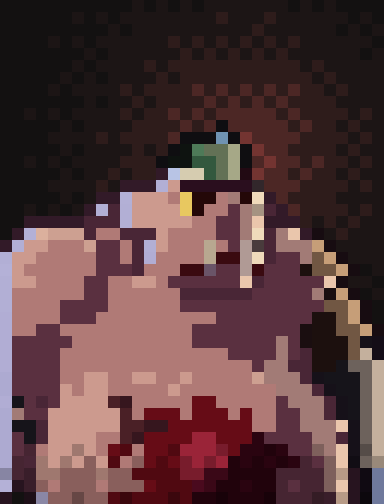
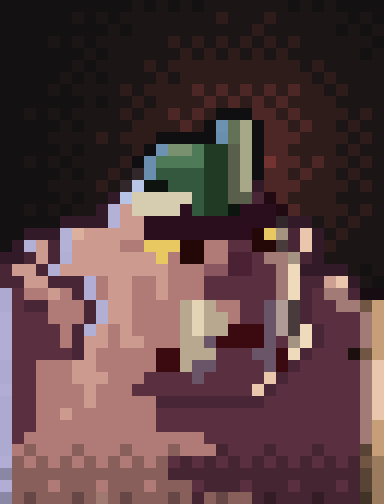
Pudge: head-centred HUD portrait; walk keeps the idle cleaver angle (no pop on the shared pass frame)

diff --git a/client/src/art/portraits/pudge.js b/client/src/art/portraits/pudge.js
@@ -1,50 +1,50 @@
 // GENERATED by tools/vox/portrait.mjs (pudge) -- do not edit by hand. Voxel HUD portrait 32x42 (= the 32x42 the HUD shows, 1 art px = 1 u), opaque.
 // Loaded by client/src/art/portraits.js, which swaps it into the sheet's 'portrait' frame unless ?vox=0.
 export default {
-  pal: { '0':'#21030c', '1':'#500911', '2':'#462532', '3':'#1c100e', '4':'#16141a', '5':'#b2afd5', '6':'#715743', '7':'#0f0e11', '8':'#170c11', '9':'#c4b09d', '!':'#1c1515', '#':'#b07a76', '$':'#131111', '%':'#2e1c1b', '&':'#5a3040', '(':'#cc9a8e', ')':'#4c2725', '*':'#492636', '+':'#a27b76', ',':'#660c16', '-':'#321a28', '/':'#895f5c', ':':'#6d625c', ';':'#eac6ac', '<':'#161119', '=':'#2a0410', '>':'#c69e78', '?':'#b1add4', '@':'#adaad1', 'A':'#9a2438', 'B':'#2a0e1e', 'C':'#9f786f', 'D':'#cda091', 'E':'#3a0a10', 'F':'#4a2026', 'G':'#781c2c', 'H':'#27141f', 'I':'#733431', 'J':'#637156', 'K':'#240808', 'L':'#36161e', 'M':'#7e605c', 'N':'#0e1310', 'O':'#a6a887', 'P':'#33583e', 'Q':'#efdabb', 'R':'#b09a95', 'S':'#1a0e10', 'T':'#391e2a', 'U':'#3a0817', 'V':'#6f799c', 'W':'#d6ccb0', 'X':'#b3b0d6', 'Y':'#e8c860', 'Z':'#b8a890', '[':'#b4b1d7', ']':'#140d17', '^':'#b79a86', '_':'#100a12', 'a':'#3b070d', 'b':'#180209', 'c':'#7093b2', 'd':'#4e7a58', 'e':'#b8c4e5', 'f':'#220a13', 'g':'#32272b', 'h':'#a59382', 'i':'#dbb09d', 'j':'#493b3c', 'k':'#6a5468', 'l':'#554c48', 'm':'#110d14', 'n':'#99897a', 'o':'#8785a3', 'p':'#4a0a1e', 'q':'#1d0f17', 'r':'#8a87a5', 's':'#664745', 't':'#341c25', 'u':'#0c080d' },
+  pal: { '0':'#a27b76', '1':'#0f0e11', '2':'#b8a890', '3':'#3a0a10', '4':'#203a24', '5':'#6a5468', '6':'#eac6ac', '7':'#33583e', '8':'#d6ccb0', '9':'#b1add4', '!':'#1c1515', '#':'#5a3040', '$':'#b07a76', '%':'#131111', '&':'#2e1c1b', '(':'#cc9a8e', ')':'#895f5c', '*':'#462532', '+':'#492636', ',':'#4c2725', '-':'#2a0e1e', '/':'#321a28', ':':'#adaad1', ';':'#c69e78', '<':'#240808', '=':'#a6a887', '>':'#595f4b', '?':'#efdabb', '@':'#4e7a58', 'A':'#e8c860', 'B':'#b2afd5', 'C':'#664745', 'D':'#b4b1d7', 'E':'#493b3c', 'F':'#4a2234', 'G':'#9a7b5e', 'H':'#6a8fae', 'I':'#32272b', 'J':'#a59382', 'K':'#e2d4b4', 'L':'#b09a95', 'M':'#715743', 'N':'#584434', 'O':'#637156', 'P':'#7a9170', 'Q':'#0e1310', 'R':'#220a13', 'S':'#8a5660', 'T':'#170c11', 'U':'#8a87a5', 'V':'#341c25', 'W':'#6d91b0', 'X':'#6e92b1', 'Y':'#733431', 'Z':'#b9c5e6', '[':'#b8c4e5', ']':'#0c160e', '^':'#dbb09d', '_':'#b3b0d6', 'a':'#cda091', 'b':'#1c100e', 'c':'#9f786f', 'd':'#423327' },
   face: [4, 11, 24, 24],
   rows: [
-    '$$$$$$$$$$$!$!$!$!!!!!!!$!$!$$$$',
-    '$$$$$$!$!$!!!!!!!!%!!!%!!!!!!$!$',
-    '$$$$$$$$$!$!!!!!!!!!!%!!!!!!$!$!',
-    '$$$$!$!$!!!!!!%!%!%!%!%!%!!!!!!$',
-    '$$$$$$$!$!!!!!!%!%!%!%!%!!!!!!$!',
-    '$$$$$$!$!!!!%!%%%%%%%%%%%!%!!!!!',
-    '$$$$$!$!$!!!!%!%%%%%%%%%%%!%!!!!',
-    '$$$$!$!!!!%!%%%%)%)%)%)%)%%!%!!!',
-    '$$$$$$$!$!!%!%%%%)%)%)%)%%%%!!!!',
-    '$$!$!$!!!!%!%%)%)%)))))%)%%%%!%!',
-    '$$$$$!$!!!!%%%%)%)7)))))%)%%!%!!',
-    '$$$$!!!!%!%%%%)777c7I))))%%%%!%!',
-    '$$$$$!$!!!!%!%7NdJJO7I))%%%%!%!!',
-    '$$!$!$!!!!%%%7NNPPJO7)I))%)%%!%!',
-    '$$$$$!$!!%!%%-eWWPJOfI))%)%%!%!!',
-    '$$$$!!!!%!---5(BBBBBBg)))%%%%!%!',
-    '$$$$$!$!--X(((#YKK#+KQ-)%%%%!!!!',
-    '$$!$!$!-5*5((((YK##&+h*-)%%%%!%!',
-    '$$-----***5(((((##&&+;---%!%!%!!',
-    '$-XiDDD*##***(####&&+Q*+;-8!%!!!',
-    '-5((###D&&#*5(###Z#&Rj*+++>8!!!!',
-    '5((#####&&#*?####ZEERQ*&&+6>8!!!',
-    '[(######&&&*###EEk&&RE&&&366>8$!',
-    '5((####&&##((#&&&&&&;*&&&&&;8!!$',
-    '5######&&######******&&&&&+S>8$!',
-    '5####&&&&######&&&&&&&&&&&&66>8$',
-    '?####&&&##########&&&&&&&&336>8$',
-    '?##&&###########&&&&&&&&&S3366>8',
-    '?&&&&&##########&&&&&&&+&S3336<]',
-    '?&&&&##############&&&&+&*33369]',
-    '?&&&&################&++**334::9',
-    '@&&&&##((##((##(#####D+++*<444:9',
-    '@&&&&(#((#####(########+++*<44:9',
-    '?4&*&((((FL#####,,#####&+++*<4:9',
-    '@+&&((((((F#,,,#,,,#,##&&++*<4:9',
-    '@44*((((((FFLL,,,,,,,##&&+++;<:9',
-    '@&4*((((##FL,,,,AA,,,=&&&&++*<:9',
-    '@&2#((C(#,1#,,1AAAG,==0=&&M+;<l9',
-    '@2*C(C(/(1#/,1,GAGA0=0=0=2&M;m:n',
-    'o2TCC///C//1111GGUU00002222M^H_V',
-    '[HT/#///#///,111pU00=002&22M;H_V',
-    'H$qr//s//1a111a100b000b222tT^HuV'
+    '%%%%%%%%%%%!%!%!%!!!!!!!%!%!%%%%',
+    '%%%%%%!%!%!!!!!!!!&!!!&!!!!!!%!%',
+    '%%%%%%%%%!%!!!!!!!!!!&!!!!!!%!%!',
+    '%%%%!%!%!!!!!!&!&!&!&!&!&!!!!!!%',
+    '%%%%%%%!%!!!!!!&!&!&!&!&!!!!!!%!',
+    '%%%%%%!%!!!!&!&&&&&&&&&&&!&!!!!!',
+    '%%%%%!%!%!!!!&!&&&&&&&&&&&!&!!!!',
+    '%%%%!%!!!!&!&&&&,&,&,&,&,&&!&!!!',
+    '%%%%%%%!%!!&!&&&&,&,&,&,&&&&!!!!',
+    '%%!%!%!!!!&!&&,&,&111,,&,&&&&!&!',
+    '%%%%%!%!!!!&&&&,&1WO=1,,&,&&!&!!',
+    '%%%%!!!!&!&&&11111HO=1,,,&&&&!&!',
+    '%%%%%!%!!!!&1XPP@44>=1,,&&&&!&!!',
+    '%%!%!%!!!!&1H@@@@44>=1Y,,&,&&!&!',
+    '%%%%%!%!!&!IH777744>=1,,&,&&!&!!',
+    '%%%%!!!!&!IZQQ77744>=/,,,&&&&!&!',
+    '%%%%%!%!!/[88888744>>+R,&&&&!!!!',
+    '%%!%!%!!/D(8888-744]---R,&&&&!&!',
+    '%%%%%////D((-----------I//!&!&!!',
+    '%%///D^(((((---------<AJ+6/!&!!!',
+    '%/_(+D(((($$AAA<<$$##<<E+6/&!!!!',
+    '//+(+B(((((((A$<<$$FF#00J+/!!!!!',
+    '+((+B((((((((($$$SSFF##0?////!%!',
+    '++((+++9$(($$($$$######0?++a6/!%',
+    ':#$$($+9$(($$($$$######0?+#00+TT',
+    ':#++$$$+B(($$$$2K2$$##5LE+##00M;',
+    '9###$$$+B(($$$$2K22$##5LE+####0;',
+    '9####$+B($($$$$2K223335LE?+###0;',
+    '9####$+(($(($$$22533335#J?+###0;',
+    '9#####+($$$$$33222###553?+###bM;',
+    ':##$$$(($$$$$33255####53+#####06',
+    ':##$$$((($$$####5#####6+######06',
+    '9##$$$$($$$##########6+#######06',
+    ':##$$$$($$$$$+++++++++########06',
+    ':##$$($$$$$$$#################06',
+    ':##$$$$$$$$$$#################0;',
+    ':#$$$$$$$$$$$$$$$#############0;',
+    ':$)$$$)$$$)$$$)$$$*###*###*###N;',
+    '9)$)$)$)$)$)$)#*#*#*#*#*#*#*#*MG',
+    'U)))))))))))))****************NG',
+    '9)))$)))$)))$)))#***#***#***#*NG',
+    'U)C)))C)c)C)))C)*)C))*V***V***dG'
   ]
 };

diff --git a/shared/vox/heroes/pudge.js b/shared/vox/heroes/pudge.js
@@ -186,7 +186,7 @@ const swH = (a, d) => a.map(([el, hd]) => [el, hd + d]);
 const IDLE = [0, 1, 2].map(b => ({ bob: -b * 0.25, head: [b * 1.5, 0, 0], armR: HOLD.R.map(([el, hd]) => [el - b, hd]), armL: HOLD.L.map(([el, hd]) => [el - b, hd]) }));
 const step = st => ({
   bob: st ? -0.6 : 0, spine: [6, st * 4, st * 4], head: [-4, -st * 3, -st * 3], footR: [0, -st * 2.2, 0], footL: [0, st * 2.2, 0],
-  armR: swH(HOLD.R, st * 12), armL: swH(HOLD.L, -st * 12), cleaver: [-72, 20],
+  armR: swH(HOLD.R, st * 12), armL: swH(HOLD.L, -st * 12),
 });
 const WALK = [step(1), IDLE[0], step(-1)];   // the passing pose is idle[0] (one frame fewer)
 const THROW = { bob: -0.5, spine: [10, 14, 0], head: [-8, -6, 0], armR: [[10, 80], [24, 86]], armL: HOLD.L, hook: [70, 90], chain: 2, footR: [0, -2.2, 0], footL: [0, 1, 0] };
@@ -209,4 +209,4 @@ export const ANIMS = {
 };
 
 /** HUD portrait framing (tools/vox/portrait.mjs): idle, the small head in the upper third with the shoulder domes around it. */
-export const PORTRAIT = { pose: ANIMS.idle[0], center: [cx, cy - 4, 34.5], scale: 1.05, fov: 24, sig: '#a8302a', face: [4, 11, 24, 24] };
+export const PORTRAIT = { pose: ANIMS.idle[0], center: [cx, HY, 38], scale: 1.8, fov: 24, sig: '#a8302a', face: [4, 11, 24, 24] };
